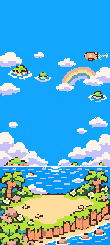
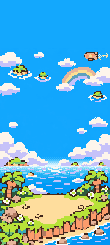
타이틀 수평선 개선: 일자 흰 줄 → 아지랑이·먼 바다 띠·잔물결·반짝임
- 하늘/바다 파랑 픽셀만 다시 칠함 (구름·섬·나무·거품·고나·로고·부제 변경 없음, 배경 재생성 없음)
- 하늘 쪽 6단계 아지랑이(2×2 디더) → 수평선 연한 청록 + 반짝이 → 가까울수록 진해지는 바다 띠(원근감) → 가로 잔물결 점선
- tools/build-title-pixel-assets.py 의 soften_horizon() 으로 재현 가능, 이미지 생성 크레딧 없음

Claude-Session: https://claude.ai/code/session_011LWBdZ2XMame63jCRHDxCu

Changed region(s): [[0.0, 0.6286, 1.0, 0.7429]]

diff --git a/tools/build-title-pixel-assets.py b/tools/build-title-pixel-assets.py
@@ -54,6 +54,86 @@ def despeckle(idx, protect=None):
     return out
 
 
+def soften_horizon(canvas):
+    """수평선 부분 수정: 일자로 그어진 흰 줄을 없애고 '아지랑이(하늘) → 먼 바다 → 가까운 바다'로 자연스럽게 잇는다.
+    구름·섬·나무·거품 등은 건드리지 않고, 하늘/바다 파랑 픽셀만 다시 칠한다 (배경을 새로 생성하지 않음)."""
+    import random
+    rnd = random.Random(7)
+    H, W, _ = canvas.shape
+    white_rows = [(int((canvas[y].min(axis=1) > 235).sum()), y) for y in range(H)]
+    cnt, hz = max(white_rows)
+    assert cnt > 80, '수평선 흰 줄을 찾지 못함'
+
+    def blue(c):   # 하늘·바다의 파란 계열만 대상 (구름·나무·섬은 제외)
+        return int(c[2]) >= 235 and int(c[0]) < 45 and int(c[1]) >= 140
+
+    def hx(h):
+        return np.array([int(h[i:i + 2], 16) for i in (1, 3, 5)], dtype=np.uint8)
+
+    # ① 하늘 쪽 아지랑이 — 수평선으로 갈수록 연해지는 6단계 팔레트 + 2×2 규칙 디더(경계 줄무늬 방지)
+    HAZE = [hx(c) for c in ('#12a7fd', '#2bb3fd', '#4fc4fe', '#78d3fe', '#a3e2ff', '#c8eeff', '#e0f6ff')]
+    BAYER = [[0, 2], [3, 1]]
+    top = hz - 9
+    for y in range(top, hz):
+        f = ((y - top + 1) / 9.0) ** 1.35 * (len(HAZE) - 1)
+        for x in range(W):
+            if not blue(canvas[y, x]):
+                continue
+            lv = f + (BAYER[y % 2][x % 2] - 1.5) / 4.0
+            canvas[y, x] = HAZE[int(np.clip(round(lv), 0, len(HAZE) - 1))]
+    # ② 수평선 행: 직선 대신 아주 연한 하늘색 + 군데군데 반짝이는 흰 점
+    for x in range(W):
+        c = canvas[hz, x]
+        if int(c.min()) > 235 or blue(c):
+            canvas[hz, x] = hx('#e6f7ff') if rnd.random() > 0.28 else hx('#bfeaff')
+    # ③ 바다: 먼 곳(연한 청록) → 가까운 곳(원래 파랑)으로 점점 진해지는 띠 (띠 높이는 아래로 갈수록 커짐 = 원근감)
+    BANDS = [(1, 2, '#9ee3fb'), (3, 4, '#6fd3f8'), (5, 7, '#45c3f7'), (8, 11, '#1fb0f6'), (12, 16, '#08a2f5')]
+    DASH = {1: ('#d6f3ff', 2), 2: ('#d6f3ff', 2), 3: ('#b9ebfc', 3), 4: ('#b9ebfc', 3), 5: ('#8fdcf9', 4), 6: ('#8fdcf9', 4), 7: ('#8fdcf9', 4)}
+    for r in range(1, 17):
+        y = hz + r
+        if y >= H:
+            break
+        band = next((b for b in BANDS if b[0] <= r <= b[1]), None)
+        if band is None:
+            continue
+        col = hx(band[2])
+        nxt = next((b for b in BANDS if b[0] == band[1] + 1), None)
+        for x in range(W):
+            if not blue(canvas[y, x]):
+                continue
+            c = col
+            if nxt is not None and r == band[1] and (x + y) % 2 == 0:   # 띠 경계는 디더로 부드럽게
+                c = hx(nxt[2])
+            canvas[y, x] = c
+    # ④ 잔물결: 가까울수록 길고 간격이 넓은 가로 점선 (연한 하이라이트)
+    for r in range(1, 12):
+        y = hz + r
+        if y >= H:
+            break
+        col, ln = DASH.get(r, ('#8fdcf9', 5)) if r < 8 else ('#5cc8f8', 5 + (r - 8))
+        gap = 5 + r
+        x = rnd.randrange(0, gap)
+        while x < W - ln:
+            if all(blue(canvas[y, x + k]) or tuple(canvas[y, x + k]) in {tuple(hx(b[2])) for b in BANDS} for k in range(ln)):
+                canvas[y, x:x + ln] = hx(col)
+            x += ln + gap + rnd.randrange(0, 6)
+    # ⑤ 반짝임: 먼 바다 쪽에 작은 흰 점 · 십자 반짝이
+    spots = 0
+    tries = 0
+    while spots < 11 and tries < 400:
+        tries += 1
+        x = rnd.randrange(2, W - 3)
+        y = hz + rnd.randrange(1, 10)
+        if blue(canvas[y, x]) or tuple(canvas[y, x]) in {tuple(hx(b[2])) for b in BANDS}:
+            canvas[y, x] = hx('#ffffff')
+            if spots % 3 == 0 and y > hz + 2:       # 가끔 십자(+) 모양
+                for dx, dy in ((-1, 0), (1, 0), (0, -1)):
+                    if tuple(canvas[y + dy, x + dx]) in {tuple(hx(b[2])) for b in BANDS} or blue(canvas[y + dy, x + dx]):
+                        canvas[y + dy, x + dx] = hx('#e6f7ff')
+            spots += 1
+    return hz
+
+
 def build_bg():
     im = np.array(Image.open(os.path.join(SRC, 'bg8-original.png')).convert('RGB'))
     idx, pal = quantize(im, 44)       # 절벽 주황·꽃 분홍 같은 작은 색 영역까지 살리려면 28색으로는 부족
@@ -78,7 +158,9 @@ def build_bg():
         seen[y, x] = True
         canvas[y, x] = sky
         stack += [(y + 1, x), (y - 1, x), (y, x + 1), (y, x - 1)]
+    hz = soften_horizon(canvas)
     Image.fromarray(canvas, 'RGB').save(os.path.join(OUT, 'title-bg-px.png'))
+    print('수평선 행', hz, '→ 아지랑이 · 먼 바다 띠 · 잔물결 · 반짝임 적용')
     print('title-bg-px.png', BG_W, 'x', BG_H, '색', len({tuple(c) for c in canvas.reshape(-1, 3)}), '| 도트 배율 4px')
 
 
